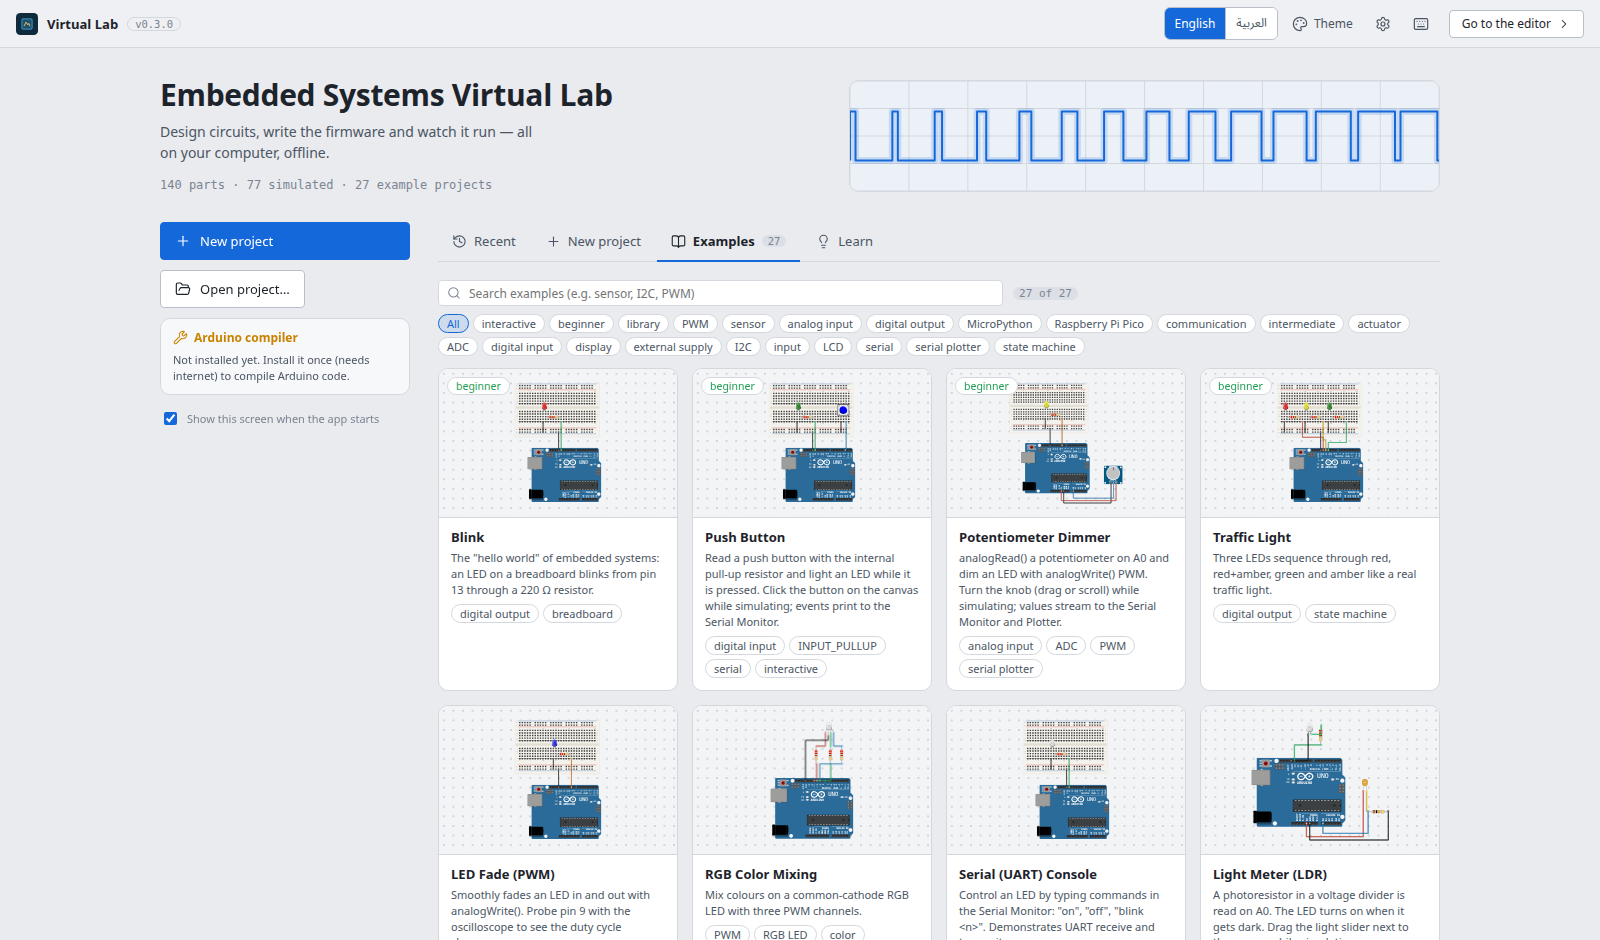
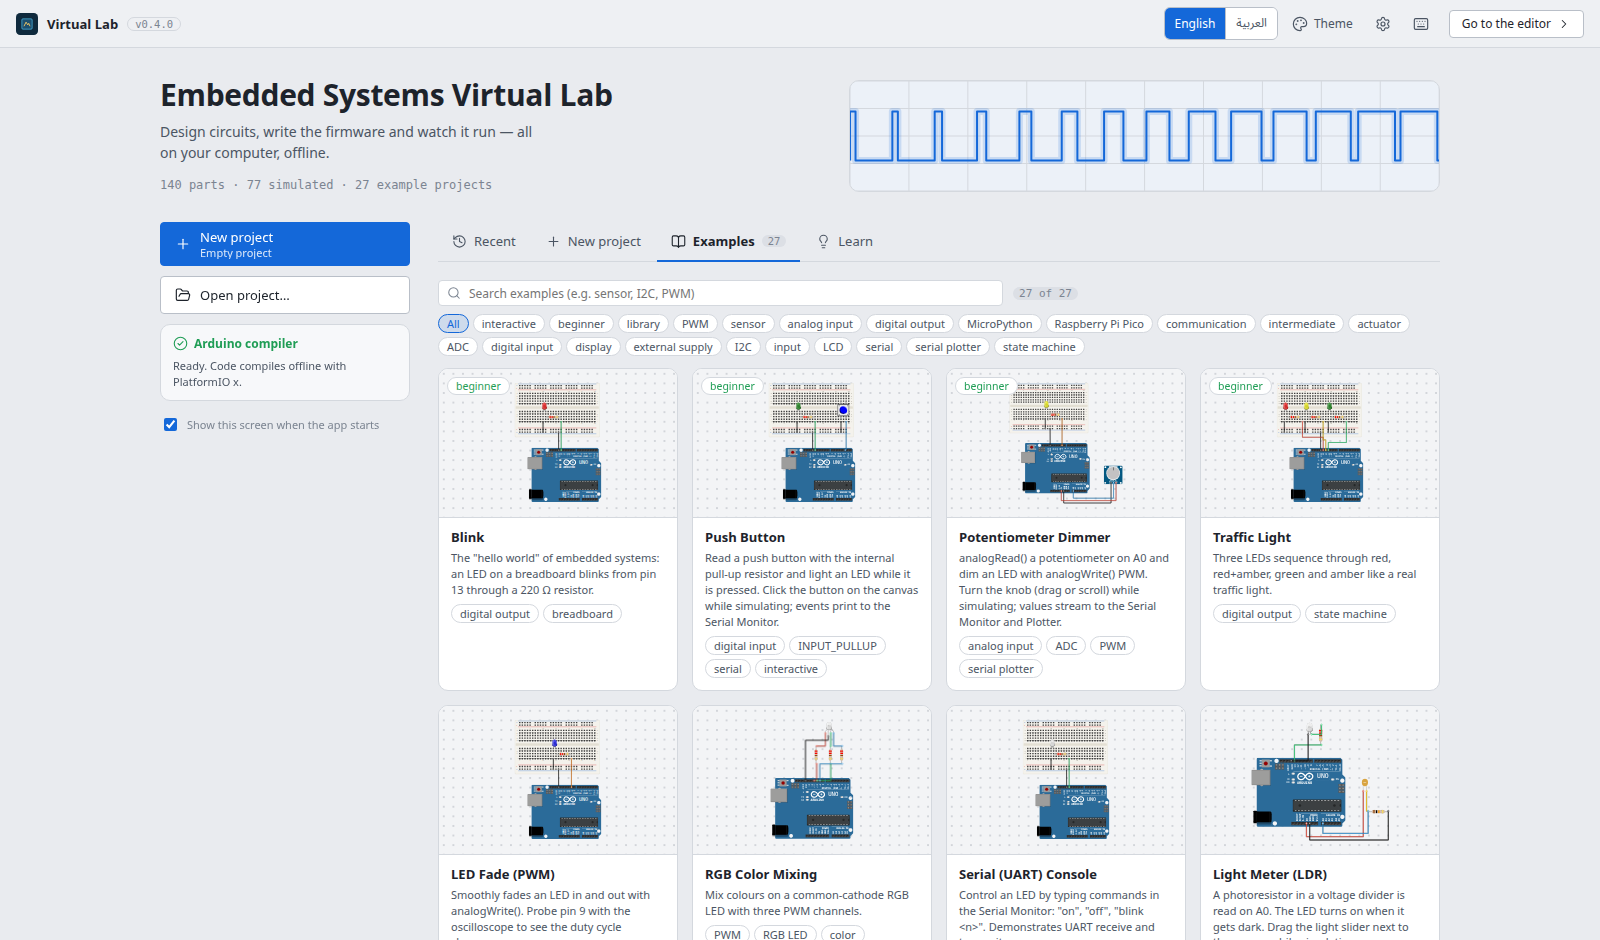
Refresh the README screenshots and front page for 0.4.0
The five older screenshots are retaken with the current interface (the
toolbar, status bar, Snippets and the floating-editor button of 0.4.0);
the README opens with what is new in 0.4.0 and mentions Wokwi projects.

Claude-Session: https://claude.ai/code/session_01ECHzepf8vfJgyB4ewweCAc

Changed region(s): [[0.0938, 0.2468, 0.25, 0.4628]]

diff --git a/README.md b/README.md
@@ -7,7 +7,8 @@ toolchain and executed on a cycle-accurate ATmega328P emulator that drives the s
 circuit. Prefer Python? Put a **Raspberry Pi Pico** on the canvas: the real MicroPython
 firmware runs on an emulated RP2040, with an interactive `>>>` prompt in the Serial Monitor.
 
-The interface is available in **English and Arabic** (right-to-left).
+The interface is available in **English and Arabic** (right-to-left). Projects from
+**Wokwi** open in the lab, and yours can be saved for Wokwi.
 
 Built with Tauri 2, React, TypeScript, avr8js, rp2040js, MicroPython, Wokwi Elements, Monaco
 Editor and PlatformIO.
@@ -27,6 +28,19 @@ Editor and PlatformIO.
 | The code editor floats anywhere — a Pico traffic light running in MicroPython | Live readings — a resistor's voltage, current and power while Blink runs |
 |---|---|
 | ![The code editor floating over the canvas beside a running Raspberry Pi Pico traffic light](docs/images/screenshot-floating.png) | ![The card of a resistor showing 2.79 V, 12.7 mA and 35.4 mW, 14 % of its power rating](docs/images/screenshot-readings.png) |
+
+## New in 0.4.0
+
+- **Fixed:** the window no longer goes blank after the Parts Guide, and *New project* on the
+  start screen creates the project straight away.
+- **The code editor floats:** drag it anywhere over the lab, drag it back to dock it.
+- **Faster work:** double-click a part to set its value, lock parts (Ctrl+L), the project file
+  saves itself, Version History, code export/import and snippets, interface size 80–150 %.
+- **Learn while you work:** live voltage, current and power on a part's card, Problems in
+  Arabic with how to fix them, Arduino help in Arabic, a first-run tour.
+- **Wokwi projects** in and out (File › Wokwi).
+
+All changes are in the [release notes](../../releases/tag/v0.4.0).
 
 ## Highlights
 
